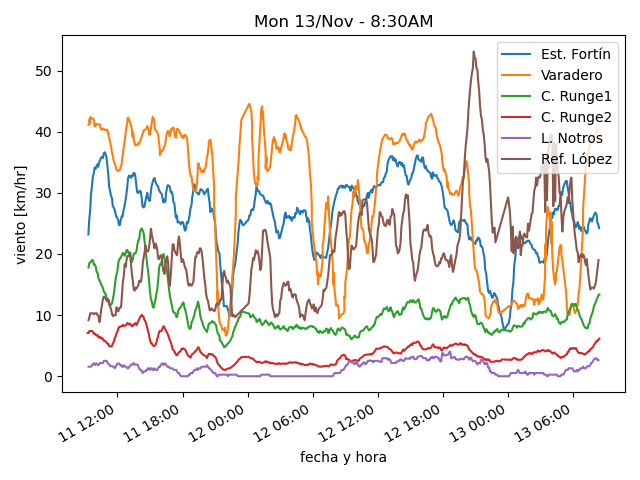
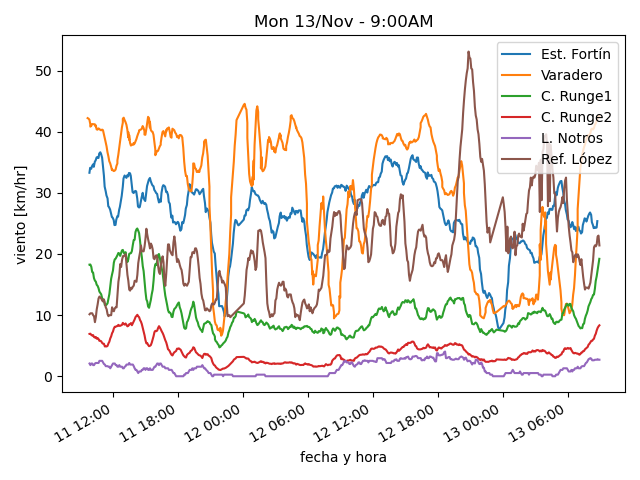
actualiza datos

diff --git a/estaciones/estacion2.html b/estaciones/estacion2.html
@@ -18,32 +18,32 @@
     </tr>
     <tr>
      <td class="stats_data">
-      8:14AM
+      8:54AM
      </td>
     </tr>
     <tr>
      <td class="stats_data">
-      6.1⁰C
+      6.4⁰C
      </td>
     </tr>
     <tr>
      <td class="stats_data">
-      2.6⁰C
+      2.9⁰C
      </td>
     </tr>
     <tr>
      <td class="stats_data">
-      78.2%
+      78.5%
      </td>
     </tr>
     <tr>
      <td class="stats_data">
-      1020.32hPa
+      1020.01hPa
      </td>
     </tr>
     <tr>
      <td class="stats_data">
-      34.7/41.3 km/hr NW
+      35.4/41.1 km/hr NW
      </td>
     </tr>
     <tr>
@@ -53,12 +53,12 @@
     </tr>
     <tr>
      <td class="stats_data">
-      2.0
+      4.0
      </td>
     </tr>
     <tr>
      <td class="stats_data">
-      295.8 W/m²
+      426.8 W/m²
      </td>
     </tr>
    </tbody>

diff --git a/estaciones/estacion4.html b/estaciones/estacion4.html
@@ -18,32 +18,32 @@
     </tr>
     <tr>
      <td class="stats_data">
-      8:24AM
+      8:54AM
      </td>
     </tr>
     <tr>
      <td class="stats_data">
-      5.3⁰C
+      6.0⁰C
      </td>
     </tr>
     <tr>
      <td class="stats_data">
-      0.3⁰C
+      1.0⁰C
      </td>
     </tr>
     <tr>
      <td class="stats_data">
-      70.3%
+      70.5%
      </td>
     </tr>
     <tr>
      <td class="stats_data">
-      1013.41hPa
+      1013.51hPa
      </td>
     </tr>
     <tr>
      <td class="stats_data">
-      4.8/7.4 km/hr SW
+      5.0/8.1 km/hr SSW
      </td>
     </tr>
     <tr>
@@ -53,12 +53,12 @@
     </tr>
     <tr>
      <td class="stats_data">
-      2.0
+      4.0
      </td>
     </tr>
     <tr>
      <td class="stats_data">
-      272.0 W/m²
+      499.7 W/m²
      </td>
     </tr>
    </tbody>

diff --git a/estaciones/estacion1.html b/estaciones/estacion1.html
@@ -18,22 +18,22 @@
     </tr>
     <tr>
      <td class="stats_data">
-      8:23AM
+      8:43AM
      </td>
     </tr>
     <tr>
      <td class="stats_data">
-      5.6⁰C
+      6.1⁰C
      </td>
     </tr>
     <tr>
      <td class="stats_data">
-      -0.9⁰C
+      -0.6⁰C
      </td>
     </tr>
     <tr>
      <td class="stats_data">
-      63.0%
+      62.5%
      </td>
     </tr>
     <tr>
@@ -43,7 +43,7 @@
     </tr>
     <tr>
      <td class="stats_data">
-      8.0/20.9 km/hr NW
+      14.4/33.0 km/hr W
      </td>
     </tr>
     <tr>
@@ -53,12 +53,12 @@
     </tr>
     <tr>
      <td class="stats_data">
-      0.5
+      1.1
      </td>
     </tr>
     <tr>
      <td class="stats_data">
-      113.0 W/m²
+      438.0 W/m²
      </td>
     </tr>
    </tbody>

diff --git a/estaciones/estacion3.html b/estaciones/estacion3.html
@@ -18,22 +18,22 @@
     </tr>
     <tr>
      <td class="stats_data">
-      8:24AM
+      8:54AM
      </td>
     </tr>
     <tr>
      <td class="stats_data">
-      4.9⁰C
+      5.3⁰C
      </td>
     </tr>
     <tr>
      <td class="stats_data">
-      1.0⁰C
+      1.7⁰C
      </td>
     </tr>
     <tr>
      <td class="stats_data">
-      76.3%
+      77.2%
      </td>
     </tr>
     <tr>
@@ -43,7 +43,7 @@
     </tr>
     <tr>
      <td class="stats_data">
-      10.5/17.0 km/hr S
+      12.6/20.3 km/hr WNW
      </td>
     </tr>
     <tr>
@@ -53,12 +53,12 @@
     </tr>
     <tr>
      <td class="stats_data">
-      3.0
+      5.0
      </td>
     </tr>
     <tr>
      <td class="stats_data">
-      278.1 W/m²
+      452.0 W/m²
      </td>
     </tr>
    </tbody>

diff --git a/estaciones/estacion6.html b/estaciones/estacion6.html
@@ -18,32 +18,32 @@
     </tr>
     <tr>
      <td class="stats_data">
-      8:20AM
+      8:55AM
      </td>
     </tr>
     <tr>
      <td class="stats_data">
-      -2.2⁰C
+      -1.6⁰C
      </td>
     </tr>
     <tr>
      <td class="stats_data">
-      -3.3⁰C
+      -2.9⁰C
      </td>
     </tr>
     <tr>
      <td class="stats_data">
-      92.0%
+      91.0%
      </td>
     </tr>
     <tr>
      <td class="stats_data">
-      1018.56hPa
+      1018.08hPa
      </td>
     </tr>
     <tr>
      <td class="stats_data">
-      9.7/22.5 km/hr SE
+      3.2/14.5 km/hr NNW
      </td>
     </tr>
     <tr>
@@ -58,7 +58,7 @@
     </tr>
     <tr>
      <td class="stats_data">
-      907.0 W/m²
+      911.0 W/m²
      </td>
     </tr>
    </tbody>

diff --git a/estaciones/estacion5.html b/estaciones/estacion5.html
@@ -18,32 +18,32 @@
     </tr>
     <tr>
      <td class="stats_data">
-      8:20AM
+      8:55AM
      </td>
     </tr>
     <tr>
      <td class="stats_data">
-      6.4⁰C
+      7.7⁰C
      </td>
     </tr>
     <tr>
      <td class="stats_data">
-      1.1⁰C
+      1.8⁰C
      </td>
     </tr>
     <tr>
      <td class="stats_data">
-      69.0%
+      66.0%
      </td>
     </tr>
     <tr>
      <td class="stats_data">
-      1016.83hPa
+      1016.29hPa
      </td>
     </tr>
     <tr>
      <td class="stats_data">
-      0.0/2.6 km/hr N
+      0.0/3.5 km/hr N
      </td>
     </tr>
     <tr>
